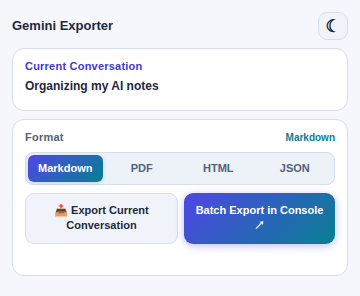
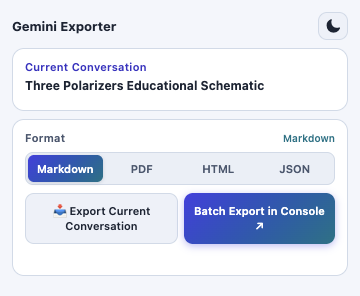
docs: refresh product guides and real Chrome screenshots (#1389)

diff --git a/docs/PRIVACY_POLICY.md b/docs/PRIVACY_POLICY.md
@@ -1,6 +1,6 @@
 # Privacy Policy for Gemini Exporter
 
-**Last Updated: October 21, 2026**
+**Last Updated: October 25, 2026**
 
 <p align="left">
   <b>English</b> | <a href="#隐私权政策-中文版">简体中文</a>
@@ -12,9 +12,9 @@ Gemini Exporter ("we", "our", or "the Extension") is committed to protecting you
 
 ## 1. Single Purpose & Overview
 
-Gemini Exporter is an open-source, client-side browser extension designed for a single dedicated purpose: **to allow users to export and back up their own personal Google Gemini conversation history into local files (Markdown, JSON, TXT, PDF, or ZIP archives) on their computer.**
+Gemini Exporter is an open-source, client-side browser extension designed for a single dedicated purpose: **to allow users to export and back up their own personal Google Gemini conversation history into local files (Markdown, HTML, PDF, or JSON, with automatic ZIP packaging for multi-file browser downloads) on their computer.**
 
-All platform site access is optional and grouped separately for Gemini, ChatGPT and Claude. In onboarding or **Site access**, select the platforms you want to use and click **Authorize**; only the selected platforms’ conversation and attachment sites are requested together. Source builds include experimental ChatGPT and Claude adapters. Each uses your existing login directly, without a developer-operated intermediary.
+All platform site access is optional and grouped separately for Gemini, ChatGPT, Claude and Grok. In onboarding or **Site access**, select the platforms you want to use and click **Authorize**; only the selected platforms’ conversation and attachment sites are requested together. Source builds include experimental ChatGPT, Claude and Grok adapters. Each uses your existing login directly, without a developer-operated intermediary.
 
 ---
 
@@ -37,6 +37,7 @@ The Extension requests minimal permissions strictly necessary to perform its adv
 | **`scripting`** | Registers and activates source scripts only for platforms with granted site access. |
 | **Gemini optional sites (`gemini.google.com`, `*.googleusercontent.com`, `*.usercontent.google.com`, `drive.google.com`, `lh3.google.com`, `*.gstatic.com`)** | Requested together when Gemini is selected for authorization to read conversations and download their attachments. |
 | **ChatGPT optional sites (`chatgpt.com`, `chat.openai.com`, `images.openai.com`)** | Requested together when ChatGPT is selected for authorization to identify the signed-in user/workspace and read conversations and images. |
+| **Grok optional sites (`grok.com`, `assets.grok.com`)** | Requested together when Grok is selected for authorization to read conversations and download attachments. |
 | **Claude optional site (`claude.ai`)** | Requested when Claude is selected for authorization to identify the current organization and read conversations and attachments. |
 
 No platform has mandatory host access or automatically injected source scripts at installation. Connecting one platform does not authorize another. No platform password or session token is saved in the local conversation database.
@@ -56,6 +57,7 @@ A small bundled math font (`NewCMMath-Regular.otf`, GUST Font License) ships wit
 - **Google Gemini (optional)**: After site access is granted, the extension interacts directly with `gemini.google.com` to display your existing conversations. It does not send your data to any other third party.
 - **ChatGPT (optional)**: After site access is granted, the extension contacts ChatGPT directly using your existing login. Conversation processing and exported files remain local, without a developer-operated intermediary.
 - **Claude (optional)**: After site access is granted, the extension reads conversations and attachments directly from `claude.ai` using your existing login. Processing and exports remain local.
+- **Grok (optional)**: After site access is granted, the extension reads conversations and available attachments directly from Grok using your existing login. Processing and exports remain local.
 - **Open-Source Libraries**: We use [JSZip](https://stuk.github.io/jszip/) (client-side JavaScript library) to compress files into `.zip` archives directly within your browser, and the Typst compiler WebAssembly + JS glue (`@myriaddreamin/typst.ts` ecosystem, Apache-2.0) to compile PDFs locally. The bundled NewCMMath font is under the GUST Font License. No external network requests are made by these components.
 
 ---
@@ -87,14 +89,14 @@ If you have questions, concerns, or bug reports regarding this Privacy Policy, p
 
 <h2 id="隐私权政策-中文版">隐私权政策 (中文版)</h2>
 
-**最近更新日期：2026 年 9 月**
+**最近更新日期：2026 年 10 月 25 日**
 
 Gemini Exporter（以下简称“本扩展”）深知用户隐私的重要性。本隐私政策旨在向您说明本扩展如何处理与保护您的数据。
 
 ### 1. 单一用途声明
-Gemini Exporter 是一款纯本地运行的开源浏览器扩展，仅用于实现单一核心功能：**允许用户将自己在 Google Gemini (gemini.google.com) 中的历史对话记录导出并备份为本地文件（Markdown、JSON、TXT、PDF 或 ZIP 压缩包）。**
+Gemini Exporter 是一款纯本地运行的开源浏览器扩展，仅用于实现单一核心功能：**允许用户将自己在 Google Gemini (gemini.google.com) 中的历史对话记录导出并备份为本地文件（Markdown、HTML、PDF 或 JSON；浏览器多文件下载自动打包 ZIP）。**
 
-Gemini、ChatGPT、Claude 的网站访问权限均为可选项，按平台独立申请。在新手引导或“网站授权”中勾选所需平台并点击“授权”后，一次申请所选平台会话与附件网站的访问权限。源码版包含实验性的 ChatGPT 和 Claude 适配器，通过现有登录会话直接读取您请求的数据，不经过开发者中转服务器。
+Gemini、ChatGPT、Claude、Grok 的网站访问权限均为可选项，按平台独立申请。在新手引导或“网站授权”中勾选所需平台并点击“授权”后，一次申请所选平台会话与附件网站的访问权限。源码版包含实验性的 ChatGPT、Claude 和 Grok 适配器，通过现有登录会话直接读取您请求的数据，不经过开发者中转服务器。
 
 ### 2. 零数据收集与 100% 客户端沙箱运行
 - **绝无外部服务器**：本扩展不设立、不连接任何外部后端服务器、中转节点或数据收集 API。
@@ -108,6 +110,7 @@ Gemini、ChatGPT、Claude 的网站访问权限均为可选项，按平台独立
 - **`scripting`**：仅为已授权平台注册、激活来源脚本。
 - **Gemini 可选网站权限**：`gemini.google.com`、`*.googleusercontent.com`、`*.usercontent.google.com`、`drive.google.com`、`lh3.google.com`、`*.gstatic.com`，勾选 Gemini 并授权时一组申请，用于读取会话和附件。
 - **ChatGPT 可选网站权限**：`chatgpt.com`、`chat.openai.com`、`images.openai.com`，勾选 ChatGPT 并授权时一组申请，用于确认用户/工作区并读取会话和图片。
+- **Grok 可选网站权限**：`grok.com`、`assets.grok.com`，勾选 Grok 并授权时一组申请，用于读取会话和可获取的附件。
 - **Claude 可选网站权限**：`claude.ai`，勾选 Claude 并授权时申请，用于确认组织并读取会话和附件。
 
 安装时不强制授予任何平台的网站访问权，也不自动注入来源脚本。连接一个平台不会授权其他平台。平台密码和会话令牌不会写入本地会话数据库。

diff --git a/docs/product-screenshots.md b/docs/product-screenshots.md
@@ -1,0 +1,54 @@
+# Product screenshot capture
+
+The README and user-guide images were refreshed on **October 25, 2026** from
+source revision `550852aa`, extension version **2.0.0**, using a running desktop
+**Google Chrome 156.0.8078.47** connected at `http://127.0.0.1:9222`.
+
+These are screenshots of the built extension loaded through
+`Extensions.loadUnpacked`, with actual Gemini account discovery and conversation
+list synchronization. The workbench contains 482 synced conversation records.
+No fixture conversations, tab-response stubs, edited DOM text, or image composites
+were used. Visible conversation titles and the account display name belong to the
+staging account; screenshots do not contain email addresses or conversation bodies.
+
+| Image | Captured state |
+| --- | --- |
+| [English workbench](../store_assets/screenshot_1_1280x800.png) | Light theme, Markdown, browser download, synced conversations selected |
+| [Dark workbench](../store_assets/screenshot_2_1280x800.png) | Local-folder delivery selected; no folder authorized and Live Save off |
+| [Chinese workbench](../store_assets/screenshot_3_1280x800.png) | Light theme, browser download, the same synced conversation list |
+| [Quick-export popup](../store_assets/screenshot_popup_v2.png) | Actual Chrome action popup opened over an existing Gemini science conversation |
+| [Site access](../store_assets/screenshot_site_access_1280x800.png) | Original optional-permission installation, before granting platform access |
+
+Workbench and site-access images are 1280 × 800 pixels. The popup is captured at
+its native 360 × 296 pixel size. Captures are direct browser PNGs, without added
+marketing text or resizing.
+
+## Refreshing the images
+
+1. Build the intended source revision with `npm ci` and `npm run build`.
+2. Start the staging browser with `./scripts/open_test_chrome.sh`, or reuse the
+   existing Chrome on port 9222. Load the intended checkout and verify its version.
+3. Capture **Site access** before granting any platform access, using the original
+   optional manifest. The dialog shows only platforms that still need access.
+4. For the signed-in workbench, use the shared local test reinstall entry point
+   (`CDPActions.reinstall_extension`) if native authorization would block automation.
+   It temporarily promotes optional permissions during installation and restores
+   the source manifest immediately. Verify `git diff -- manifest.json` is empty.
+5. Open Gemini, let the extension discover the signed-in account, and use **Sync
+   All**. Wait for the operation to finish and dismiss the tour. Do not replace
+   provider data with fixture records. Review visible titles and account information
+   before publishing the images.
+6. Set the workbench viewport to 1280 × 800, switch language/theme/delivery using
+   the product controls, and capture the three workbench states above. Leave the
+   folder unauthorized unless an actual folder has been selected.
+7. Open an existing conversation and bring its tab to the foreground. Open the
+   actual Chrome action popup, wait for the current conversation title to resolve,
+   and capture it at its native dimensions.
+8. Visually inspect every PNG, update the date/revision/browser details here, and
+   keep README and user-guide captions consistent with the captured states.
+
+This session verifies the documented visible UI and screenshot capture. It does
+not constitute the full Tier 2 workflow or validate Chrome's native optional-site
+permission approval, denial or revocation prompts. The old opt-in
+`tests/e2e/readme_screenshots.spec.ts` uses anonymous fixtures in a separate browser;
+its output should not be described as a 9222 staging capture.

diff --git a/docs/CHROMEWEBSTORE.md b/docs/CHROMEWEBSTORE.md
@@ -24,17 +24,29 @@ Chrome Web Store enforces a strict single-purpose policy requiring explicit just
 
 | Permission | Justification / Usage in Extension |
 | :--- | :--- |
-| **`storage`** | Stores user configuration settings (selected export format, toggle states) and local conversation index metadata (`gemini_conversations`, `exportedIds`) to enable fast incremental sync across sessions without re-querying all conversations. |
+| **`storage`** | Stores user configuration settings (selected export format, toggle states) and local conversation records and export history to enable fast incremental sync across sessions without re-querying all conversations. |
+| **`scripting`** | Registers and activates source scripts for platforms whose optional site access has been granted. |
+| **`activeTab`** | Lets the explicitly opened popup inspect the current tab to identify the conversation to export. |
 | **`unlimitedStorage`** | Required to persist conversation lists and metadata indexes for power users who have hundreds or thousands of Gemini conversations in their local browser sandbox. |
 
 ---
 
 ## 🌐 Host Permissions Justification
 
-| Host Pattern | Justification / Usage |
-| :--- | :--- |
-| **`https://gemini.google.com/*`** | Core target host. Required to inspect the conversation DOM, establish messaging with Gemini web app, and synchronize user-initiated chat exports. |
-| **`https://*.googleusercontent.com/*`** | Required to fetch user-uploaded attachments (PDFs, docs) and AI-generated image blobs displayed within conversation turns for offline packaging. |
+All platform hosts are **optional** in the release manifest. Onboarding and
+**Site access** request the conversation and attachment sites only for selected
+platforms. Already authorized platforms are hidden from the request list;
+unchecking a choice does not revoke previously granted access.
+
+| Platform | Optional host patterns | Justification |
+| :--- | :--- | :--- |
+| **Gemini** | `gemini.google.com`, `*.googleusercontent.com`, `*.usercontent.google.com`, `drive.google.com`, `lh3.google.com`, `*.gstatic.com` | Read requested conversations and retrieve associated images/files directly from Google. |
+| **ChatGPT (experimental)** | `chatgpt.com`, `chat.openai.com`, `images.openai.com` | Identify the signed-in account/workspace and retrieve requested conversations and images. |
+| **Claude (experimental)** | `claude.ai` | Identify the current organization and retrieve requested conversations and attachments. |
+| **Grok (experimental)** | `grok.com`, `assets.grok.com` | Retrieve requested conversations and available attachments using the signed-in Grok tab. |
+
+Use the release `manifest.json` as the authoritative permission list; temporary
+required permissions used for local staging must never enter a store package.
 
 ---
 
@@ -45,6 +57,13 @@ Chrome Web Store enforces a strict single-purpose policy requiring explicit just
 - **No Credential Harvesting**: Never reads, stores, or transmits Google account passwords or authentication Cookies.
 
 ---
+
+## Product screenshots
+
+Current README and store screenshot assets were captured in real Chrome on port
+9222. See [capture provenance, dimensions and refresh steps](./product-screenshots.md).
+The dark workbench image shows local-folder settings before folder authorization;
+it does not demonstrate active Live Save.
 
 ## 🏷 Title & Promotional Assets Policy Compliance (Red Nickel Prevention)
 

diff --git a/docs/USER_GUIDE.md b/docs/USER_GUIDE.md
@@ -4,6 +4,12 @@
 
 Gemini Exporter saves supported Google Gemini conversations locally. It does **not** provide hosted backup or cloud synchronization.
 
+## Connect a platform
+
+Open **Site access** in the Workbench, select the platforms you need, and click **Authorize**. Only platforms still needing permission appear; already authorized platforms are hidden. Unchecking a platform does not revoke its existing access. To revoke access, use Chrome’s extension settings. After authorization, sign in on the source website and select its account in the Workbench.
+
+![Platform site-access selection](../store_assets/screenshot_site_access_1280x800.png)
+
 ## Export formats and delivery
 
 | Format | Typical use |
@@ -33,6 +39,8 @@ Choose either **Browser download** or **Save to local folder** in the Workbench.
 **Sync is not a file backup.** It discovers/updates accessible conversation records; **Export selected** creates files. Previously saved local conversations are not removed merely because a later scan cannot find them.
 
 **Skip exported** is designed to skip only a fully completed, matching-format export when the known source has not changed. Re-export a chat when its contents have changed or when you want a different format.
+
+![Workbench with synced Gemini conversations](../store_assets/screenshot_1_1280x800.png)
 
 ## Live Save
 
@@ -64,7 +72,7 @@ Takeout can supplement what Gemini exposes to an online scan. It cannot guarante
 
 **Why does PDF ask to access local fonts?** The local PDF renderer may request Chrome's Local Font Access permission to use installed fonts, especially for non-Latin scripts. Your document is compiled locally.
 
-**Can I back up ChatGPT, Claude, or Grok?** Source builds include experimental ChatGPT and Claude support. In onboarding or Site access, select Gemini, ChatGPT and/or Claude (all selected by default), then click Authorize. Chrome requests the selected platforms’ optional conversation and attachment sites together. Sign in on the platform websites, then select an account, sync and export. Each platform is authorized independently. Grok is not implemented.
+**Can I back up ChatGPT, Claude, or Grok?** Source builds include experimental ChatGPT, Claude and Grok support. Authorize the platforms you need through onboarding or Site access. Chrome requests only the selected platforms’ conversation and attachment sites. Sign in on the platform websites, then select an account, sync and export. Keep a signed-in grok.com tab open for Grok synchronization and export. Missing attachments, unsupported tools and ambiguous branches may produce partial exports.
 
 **What happens to ChatGPT questionnaires and interactive cards?** Exports preserve the provider's full Markdown fallback. Dynamic syntax alone does not mark that textual export incomplete. For loop-generated forms, literal question/option data is also recovered from arrays referenced by the template, without running component code. A dynamic component without a usable fallback remains incomplete because literal recovery cannot establish full text coverage. Buttons become labels; exports do not reproduce interactive state, submit forms or run ChatGPT actions. Selected answers and calculated results are preserved when they are present in the source fallback or subsequent conversation messages.
 

diff --git a/README.md b/README.md
@@ -28,11 +28,11 @@ English/简体中文 interface · Dark/light theme · Export status and retry to
 
 ## 📸 Preview
 
-![Gemini Exporter v2 workbench with demo conversations](./store_assets/screenshot_1_1280x800.png)
+![Gemini Exporter v2 workbench with synced Gemini conversations](./store_assets/screenshot_1_1280x800.png)
 
-[Dark-mode workbench & Live Save](./store_assets/screenshot_2_1280x800.png) · [Quick-export popup](./store_assets/screenshot_popup_v2.png)
+[Dark-mode workbench & local-folder settings](./store_assets/screenshot_2_1280x800.png) · [Quick-export popup](./store_assets/screenshot_popup_v2.png) · [Site access](./store_assets/screenshot_site_access_1280x800.png)
 
-*Screenshots were captured from the actual v2 extension with anonymous example conversations.*
+*Captured on October 25, 2026 from the current source build in real Chrome on port 9222, using synced Gemini conversations. See [capture details](./docs/product-screenshots.md).*
 
 ## 🚀 Get started
 
@@ -50,7 +50,7 @@ English/简体中文 interface · Dark/light theme · Export status and retry to
 
 ## 🔒 Privacy first
 
-Your exports are processed on your device, not on a developer-operated server. The extension uses your existing browser sessions to retrieve requested conversations and resources from Google Gemini, or from ChatGPT after you grant optional site access.
+Your exports are processed on your device, not on a developer-operated server. The extension uses your existing browser sessions to retrieve requested conversations and resources from Google Gemini, or experimental ChatGPT, Claude and Grok sources after you grant their optional site access.
 
 ## 🛠 Build from source
 

diff --git a/README_zh.md b/README_zh.md
@@ -28,11 +28,11 @@
 
 ## 📸 产品截图
 
-![Gemini Exporter v2 中文工作台，展示示例对话](./store_assets/screenshot_3_1280x800.png)
+![Gemini Exporter v2 中文工作台，展示实际同步的 Gemini 对话](./store_assets/screenshot_3_1280x800.png)
 
-[深色模式及实时保存](./store_assets/screenshot_2_1280x800.png) · [快捷导出弹窗](./store_assets/screenshot_popup_v2.png)
+[深色模式与本地文件夹设置](./store_assets/screenshot_2_1280x800.png) · [快捷导出弹窗](./store_assets/screenshot_popup_v2.png) · [网站授权](./store_assets/screenshot_site_access_1280x800.png)
 
-*截图来自实际运行的 v2 扩展，所有对话均为匿名示例数据。*
+*截图于 2026 年 10 月 25 日通过 9222 端口的真实 Chrome 拍摄，使用当前源码构建及实际同步的 Gemini 对话。详见[截图记录](./docs/product-screenshots.md)。*
 
 ## 🚀 三步开始
 

diff --git a/docs/index.md b/docs/index.md
@@ -13,6 +13,13 @@ Gemini Exporter runs locally in your browser and supports exporting conversation
 - [Extension Privacy Policy](./PRIVACY_POLICY.html)
 - [Analytics Stats Privacy Policy](./stats-privacy/)
 
+## Product preview
+
+![Gemini Exporter workbench](https://raw.githubusercontent.com/OTLFrostA/gemini-exporter/main/store_assets/screenshot_1_1280x800.png)
+
+- [User guide](./USER_GUIDE.html) · [中文使用指南](./USER_GUIDE_zh.html)
+- [Screenshot capture details](./product-screenshots.html)
+
 ## Privacy
 
 Gemini Exporter is designed around local processing and does not use telemetry or tracking inside the extension.
